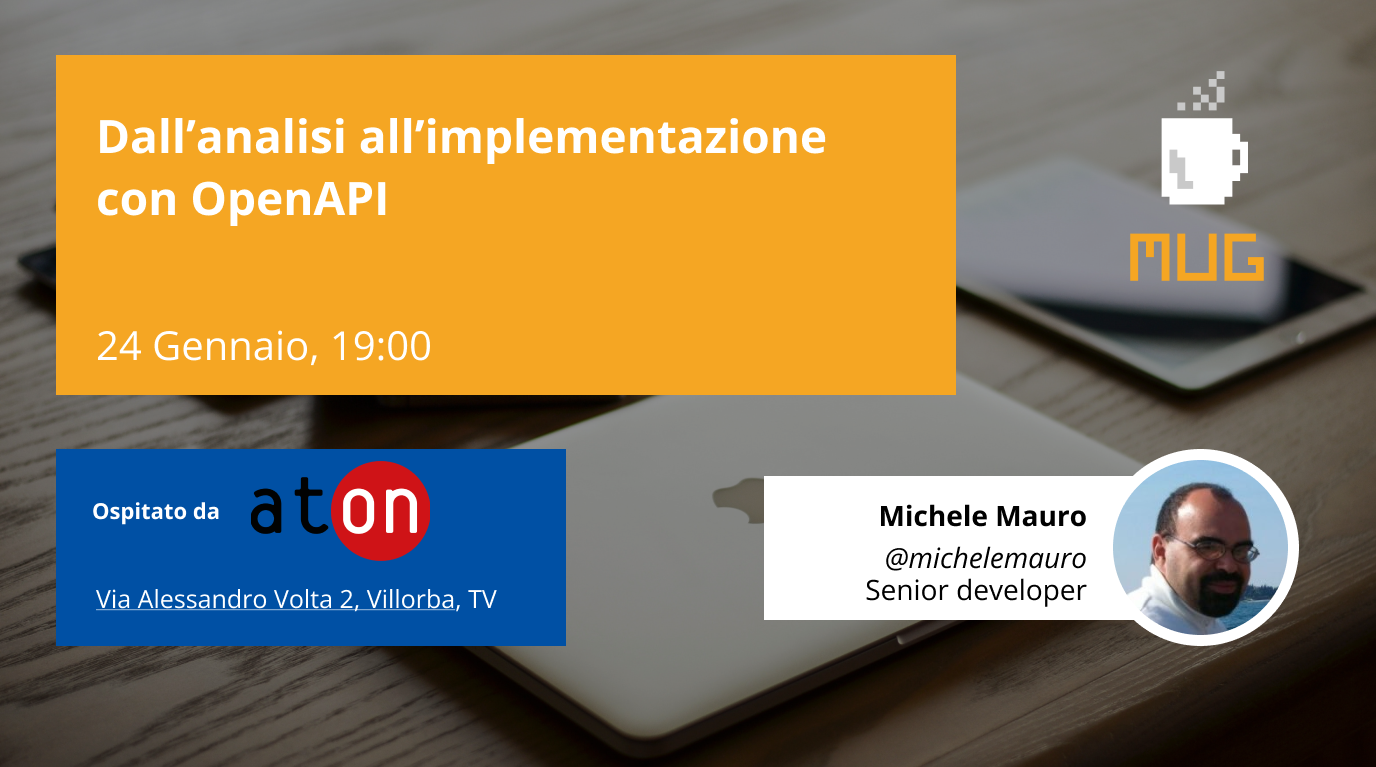
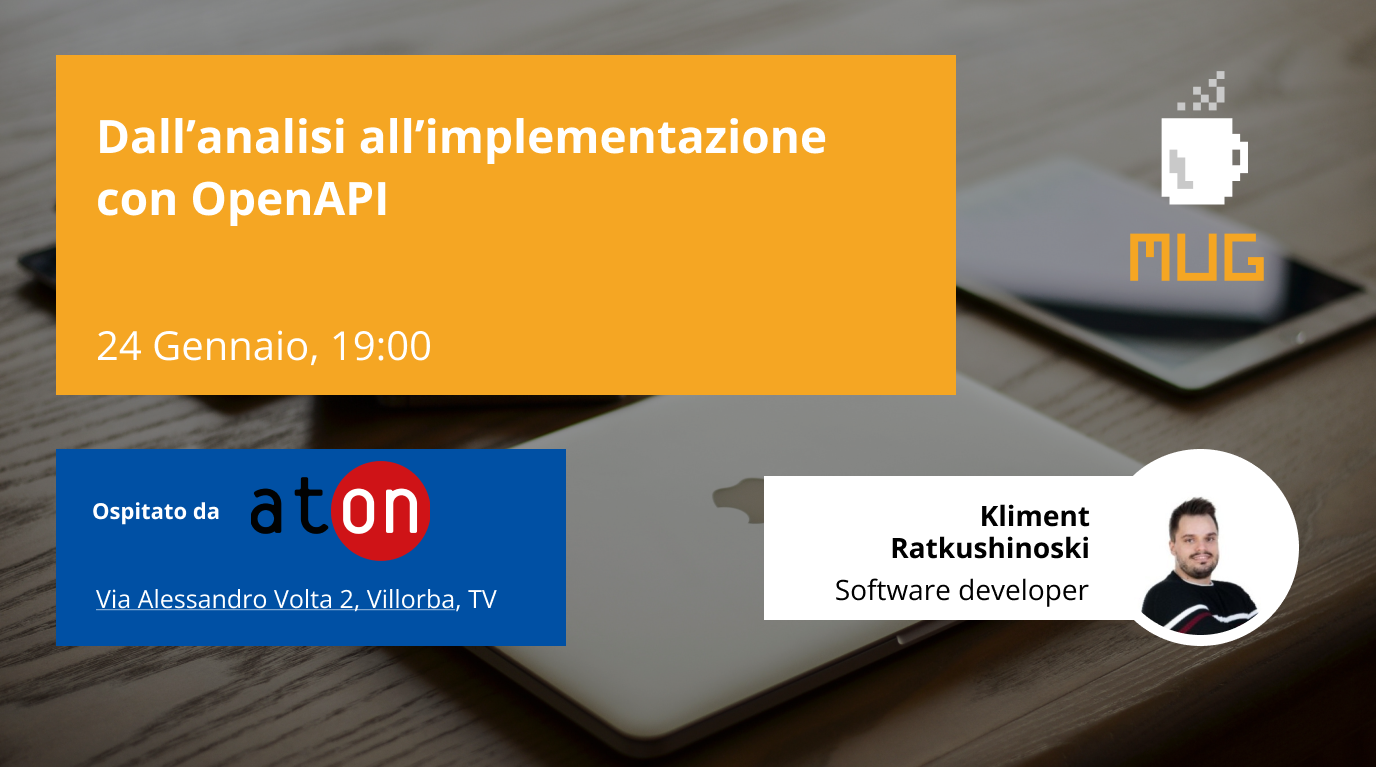
update speaker info

Changed region(s): [[0.5938, 0.5997, 0.9375, 0.8396]]

diff --git a/_posts/2023-01-02-dallanalisi-allimplementazione-con-openapi.md b/_posts/2023-01-02-dallanalisi-allimplementazione-con-openapi.md
@@ -1,15 +1,15 @@
 ---
 layout: post
 title:  "Dall’analisi all’implementazione con OpenAPI"
-speaker: Michele Mauro
+speaker: Kliment Ratkushinoski
 date:   2023-01-24 19:00:00 +0100
 categories: eventi
 image: /assets/images/card-ratkushinoski.png
-summary: "MUGTalk di Michele Mauro"
+summary: "MUGTalk di Kliment Ratkushinoski"
 eventbrite_url: https://www.eventbrite.it/e/biglietti-dallanalisi-allimplementazione-con-openapi-502677872047
 ---
 
-Iniziamo il 2023 con il talk di [Kliment e Michele](#speaker) su come far collaborare team diversi in modo efficacie usando lo standard OpenAPI.
+Iniziamo il 2023 con il talk di [Kliment](#speaker), su come far collaborare team diversi in modo efficacie usando lo standard OpenAPI.
 
 L'evento si terrà il 24 Gennaio 2023 ed inizierà alle ore 19.00. Saremo ospiti negli uffici di [Aton S.p.A.](#location) a Villorba.
 
@@ -35,7 +35,7 @@ Il numero di posti è limitato. Per partecipare dovete registrarvi prendendo un 
 
 <a id="speaker"></a>
 
-<h3>Speakers:</h3>
+<h3>Speaker:</h3>
 
 <div class="speaker-container">
     <img src="/assets/images/speaker-kliment-ratkushinoski.jpg" />
@@ -43,18 +43,6 @@ Il numero di posti è limitato. Per partecipare dovete registrarvi prendendo un 
         Kliment Ratkushinoski,<br />
         <i>Software Developer Analyst</i><br />
         <a href="https://www.linkedin.com/in/klimentr/">Linkedin</a>
-    </p>
-    <p>
-    </p>
-    <p class="clear"></p>
-</div>
-
-<div class="speaker-container">
-    <img src="/assets/images/speaker-michele-mauro.jpeg" />
-    <p>
-        Michele Mauro,<br />
-        <i>Senior Software Engineer</i><br />
-        <a href="https://www.linkedin.com/in/mauromichele/">Linkedin</a>
     </p>
     <p>
     </p>
